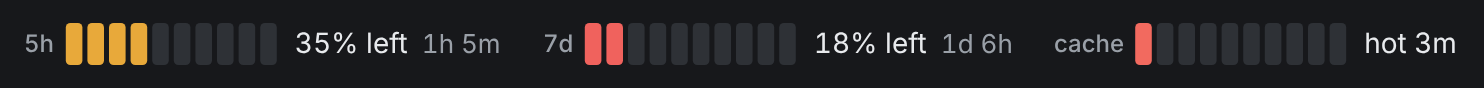
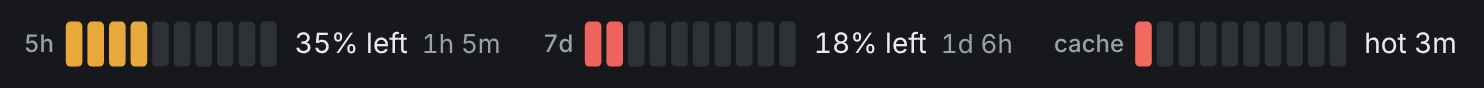
pips: bars 25% taller (22.5 px)
Full-text rungs are 22.5 px tall (from 18 in 0.8.0); narrower rungs
scale with them. Width cap follows (0.6 of the height). Tests, README
note and screenshots updated.

Claude-Session: https://claude.ai/code/session_01AWEn6vFT4e2kDdChz5rUPY

diff --git a/hooks/art.test.ts b/hooks/art.test.ts
@@ -279,17 +279,17 @@ test('pips: hot cache pips are hotRed, a cold cache lights all ten in coldBlue',
   }
 })
 
-test('pips: bars at 99 columns are tall (21 px) and widen to fill the strip', () => {
+test('pips: bars at 99 columns are tall (22.5 px) and widen to fill the strip', () => {
   const sizes = (svg: string): [number, number][] =>
     [...svg.matchAll(/<rect x="[^"]+" y="[^"]+" width="([\d.]+)" height="([\d.]+)" rx/g)].map(m => [Number(m[1]), Number(m[2])])
   const full = sizes(bandSvg(base({ cache: hot(41 * M) }), 99, true).source)
   expect(full.length).toBe(30)
-  for (const [w, h] of full) { expect(h).toBe(21); expect(w).toBeGreaterThanOrEqual(6); expect(w).toBeLessThanOrEqual(12.6) }
+  for (const [w, h] of full) { expect(h).toBe(22.5); expect(w).toBeGreaterThanOrEqual(6); expect(w).toBeLessThanOrEqual(13.5) }
   // Longer words (a cold cache, a reached limit) may take a rung down, still tall.
   for (const v of [STATES.cold!, STATES.exceeded!]) {
     const bars = sizes(bandSvg(v, 99, true).source)
     expect(bars.length).toBe(30)
-    for (const [w, h] of bars) expect(h).toBeGreaterThanOrEqual(17.5)
+    for (const [w, h] of bars) expect(h).toBeGreaterThanOrEqual(20)
   }
   // Narrower, the bars stay tall: the words give way first.
   for (const [w, h] of sizes(bandSvg(base({ cache: hot(41 * M) }), 56, true).source)) expect(h).toBeGreaterThan(w * 1.5)

diff --git a/hooks/themes/pips.ts b/hooks/themes/pips.ts
@@ -191,13 +191,13 @@ const SQUARE_LADDER: Ladder = [
  * drop words before they shrink; the squares only on a very narrow strip.
  */
 const LADDER: Ladder = [
-  // Full height (21 px) while every word fits; the width here is the least the bars start
+  // Full height (22.5 px) while every word fits; the width here is the least the bars start
   // from, since they widen afterwards into the room left over.
-  [{ size: 9, gap: 2.5, h: 21 }, 0], [{ size: 8, gap: 2.5, h: 21 }, 0], [{ size: 7, gap: 2, h: 21 }, 0],
-  [{ size: 6, gap: 2, h: 21 }, 0], [{ size: 7, gap: 2, h: 21 }, 1], [{ size: 6, gap: 2, h: 21 }, 1],
+  [{ size: 9, gap: 2.5, h: 22.5 }, 0], [{ size: 8, gap: 2.5, h: 22.5 }, 0], [{ size: 7, gap: 2, h: 22.5 }, 0],
+  [{ size: 6, gap: 2, h: 22.5 }, 0], [{ size: 7, gap: 2, h: 22.5 }, 1], [{ size: 6, gap: 2, h: 22.5 }, 1],
   // Narrower: the bars stay tall while the reset time, then the unit word, then "hot" give way.
-  [{ size: 6, gap: 2, h: 19 }, 2], [{ size: 5, gap: 1.5, h: 18 }, 2], [{ size: 5, gap: 1.5, h: 18 }, 3],
-  [{ size: 5, gap: 1.5, h: 18 }, 4], [{ size: 4, gap: 1.5, h: 16 }, 4], [{ size: 3, gap: 1, h: 15 }, 4],
+  [{ size: 6, gap: 2, h: 20.5 }, 2], [{ size: 5, gap: 1.5, h: 19.5 }, 2], [{ size: 5, gap: 1.5, h: 19.5 }, 3],
+  [{ size: 5, gap: 1.5, h: 19.5 }, 4], [{ size: 4, gap: 1.5, h: 17 }, 4], [{ size: 3, gap: 1, h: 16 }, 4],
   ...SQUARE_LADDER,
 ]
 

diff --git a/README.md b/README.md
@@ -45,7 +45,7 @@ Changed in 0.7.0: new option `keepWarm` (see Keep warm below), off by default. `
 
 Changed in 0.8.0: `pips` draws tall bars, about twice as tall as before, and keeps every word. The big squares are a new look, `squares`. The `classic`, `midnight` and `mono` looks were removed; a saved value of any of them now falls back to the default look (`terminal`). Screenshots of every look are in `docs/screenshots`.
 
-Changed in 0.9.0: pips is the only look. The `theme` option is gone, and with it `terminal`, `clean`, `paper`, `sunset`, `flat`, `squares` and `text`; a saved `theme` value is ignored and the desktop draws pips. The terminal still draws the text strip. The pips bars are about 15% taller (21 px), the text is a size larger, and the bars widen to fill the strip.
+Changed in 0.9.0: pips is the only look. The `theme` option is gone, and with it `terminal`, `clean`, `paper`, `sunset`, `flat`, `squares` and `text`; a saved `theme` value is ignored and the desktop draws pips. The terminal still draws the text strip. The pips bars are 25% taller (22.5 px), the text is a size larger, and the bars widen to fill the strip.
 
 ## Left or used
 
